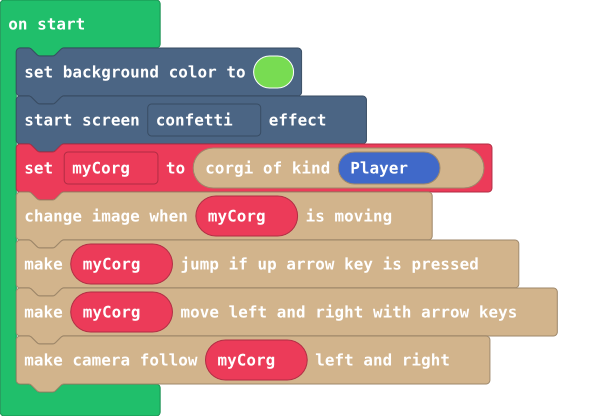
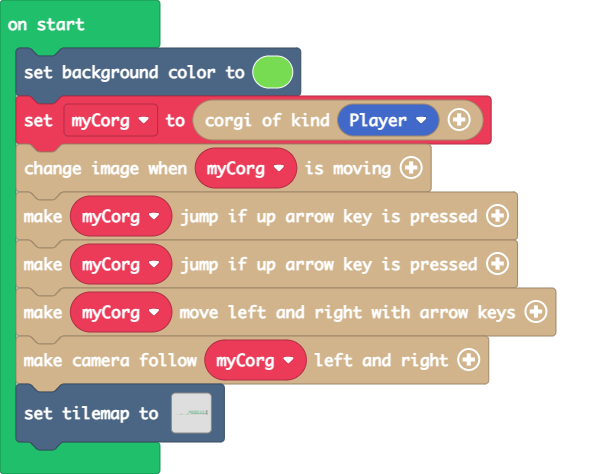
level one

diff --git a/main.ts b/main.ts
@@ -1,7 +1,17 @@
 scene.setBackgroundColor(7)
-effects.confetti.startScreenEffect()
 let myCorg = corgio.create(SpriteKind.Player)
 myCorg.updateSprite()
 myCorg.verticalMovement()
+myCorg.verticalMovement()
 myCorg.horizontalMovement()
 myCorg.follow()
+tiles.setTilemap(tiles.createTilemap(hex`33000800000000000000000000000000000000000000000000000000000000000000000000000000000000000000000000000000000005000000000000000000000000000000000000000000000300000300000300000300030000030000000300000003000000000305000000000000000000000000000000000000000000000300000300000300000300030000030000000300000003000000000305000000000000000000000000000000000000000000030303030300000300000300030000030000000300000003000000000305000000000000000000000000000000000000000000000000000300000300000300030000030000000300000003000000000305000000000000000000000000000000000000000300000000000303030303030303030303030303030303030303030303030305000000000000000000030000000000000000000300000000000000000000000000000000000000000000000000000000000005020101010101010104030201010101010101040302010101010101010101010101010101010101010101010101010101010105`, img`
+    ...................................................
+    ......................2..2..2..2.2..2...2...2....2.
+    ......................2..2..2..2.2..2...2...2....2.
+    .....................22222..2..2.2..2...2...2....2.
+    .........................2..2..2.2..2...2...2....2.
+    ...................2.....2222222222222222222222222.
+    .........2.........2..........2....................
+    .........2.........2...........2...................
+    `, [myTiles.transparency16,sprites.castle.tilePath8,sprites.castle.tilePath7,sprites.builtin.forestTiles0,sprites.castle.tilePath9,sprites.dungeon.darkGroundCenter], TileScale.Sixteen))
